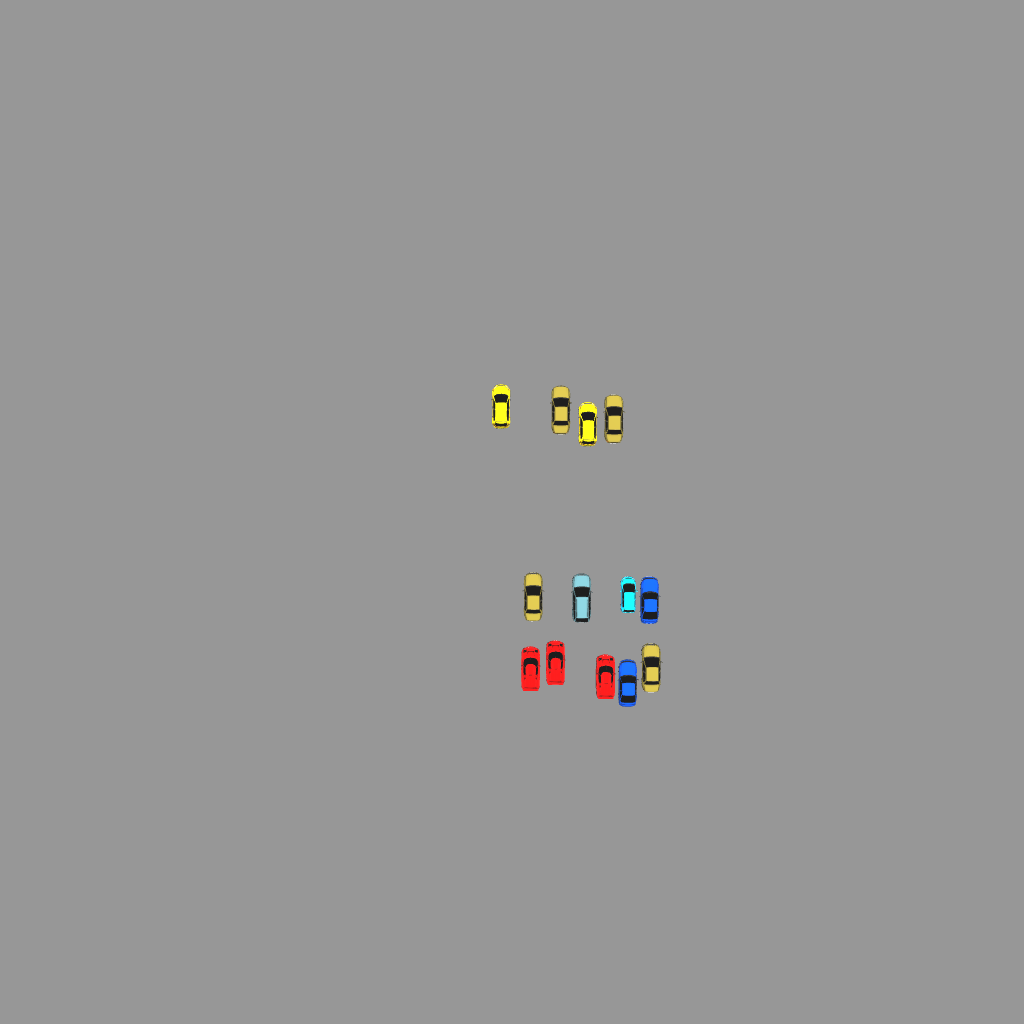
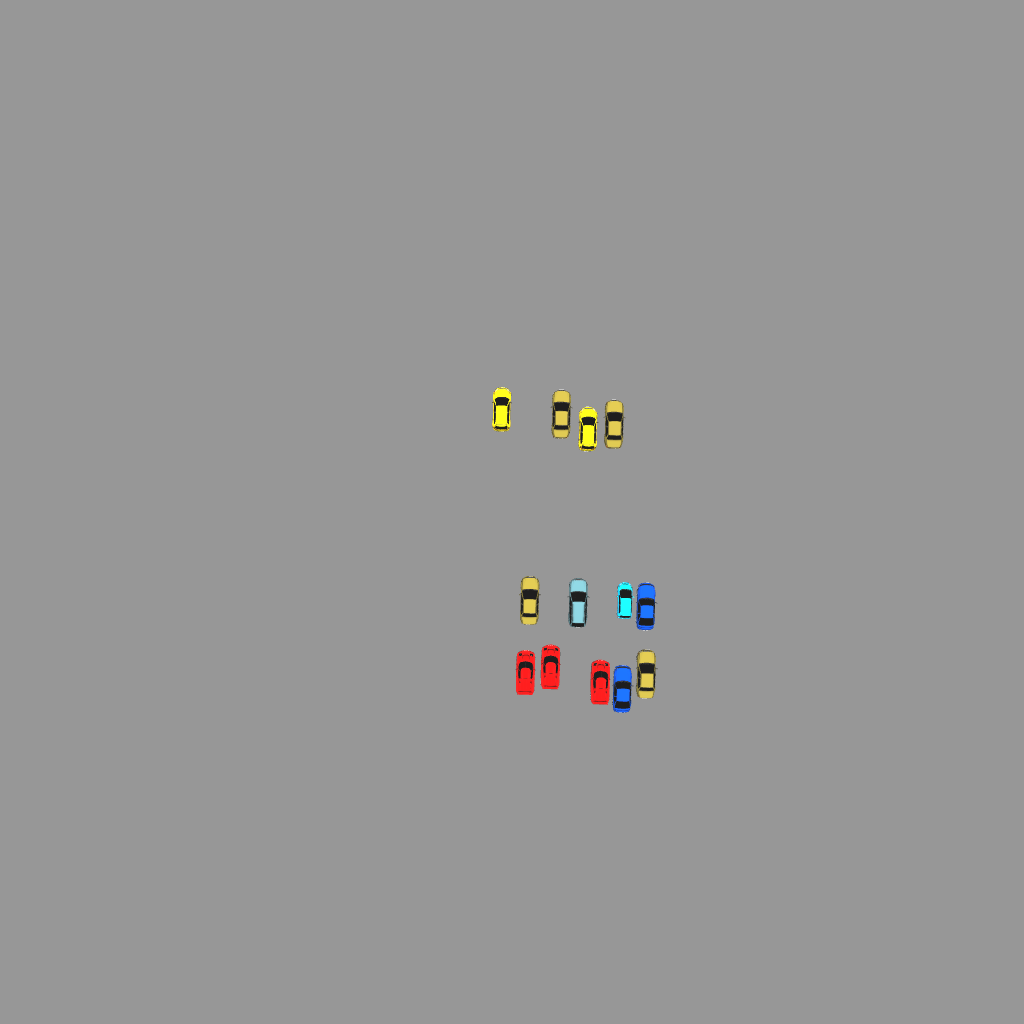
Connect WBM to ros

Changed region(s): [[0.5, 0.5625, 0.6562, 0.7188], [0.5312, 0.375, 0.625, 0.4375], [0.4688, 0.375, 0.5, 0.4375]]

diff --git a/static/main.js b/static/main.js
@@ -1,8 +1,3 @@
-var map = L.map('map').setView([51.505, -0.09], 13);
-L.tileLayer('https://tile.openstreetmap.org/{z}/{x}/{y}.png', {
-    maxZoom: 19,
-    attribution: '&copy; <a href="http://www.openstreetmap.org/copyright">OpenStreetMap</a>'
-}).addTo(map);
 
 const configData = JSON.parse(document.body.dataset.token);
 const serviceAreaCenter = configData["service_area_center"];
@@ -11,6 +6,13 @@ const cameraFov = configData["camera_fov"];
 const homePoint = configData["home_point"];
 let height = configData["init_height"];
 let period = configData["period"];
+
+
+var map = L.map('map').setView(configData["service_area_center"], 17);
+L.tileLayer('https://tile.openstreetmap.org/{z}/{x}/{y}.png', {
+    maxZoom: 19,
+    attribution: '&copy; <a href="http://www.openstreetmap.org/copyright">OpenStreetMap</a>'
+}).addTo(map);
 
 
 const HEIGHT_MIN = 10;

diff --git a/app.py b/app.py
@@ -1,7 +1,7 @@
-from flask import Flask, render_template, request, jsonify
+from flask import Flask, render_template, request
 import json
-import rospy
-import ros_library as ros_library
+import subprocess
+import os
 
 app = Flask(__name__)
 
@@ -23,12 +23,15 @@ def navigation():
     data = request.get_json()
     print("Received data:", data)
 
-    waypoints = ros_library.convertNavDataToWaypoints(data)
-    ros_library.simpleNavigation(waypoints)
+    # Call the separate ROS script with subprocess
+    try:
+        os.environ["LD_PRELOAD"] = "/usr/lib/x86_64-linux-gnu/libtiff.so.5"
+        subprocess.Popen(["python3", "main.py"], stdin=subprocess.PIPE)
+    except Exception as e:
+        print(f"Error launching ROS script: {e}")
     
     return "Received data...", 200
 
 
 if __name__ == "__main__":
-    # rospy.init_node("navigation_node")
-    app.run(debug=True)
+    app.run(debug=True, use_reloader=False)  # Disable auto-reloader

diff --git a/main.py b/main.py
@@ -1,1 +1,21 @@
 import detect
+import ros_library
+import rospy
+import os
+from geometry_msgs.msg import Point
+
+rospy.init_node("navigation_node", anonymous=True)
+
+ros_library.resetPlates()
+ros_library.resetPhotos()
+ros_library.MAX_DIST = 10.0
+ros_library.simpleNavigation([Point(0, 0, 80)], image=True)
+ros_library.simpleNavigation([Point(0, 0, 10)], image=False)
+ros_library.MAX_DIST = 1.0
+detect.init()
+
+for f in os.listdir("images"):
+    detect.draw_detections_on_image(f, f"output/det_{f}")
+    abs_coords = detect.inference_with_absolute_coordinates(f, remove_repetations=True)
+
+ros_library.readPlates(abs_coords)

diff --git a/ros_library.py b/ros_library.py
@@ -430,7 +430,7 @@ def resetPlates():
 
 if __name__ == "__main__":
 
-    rospy.init_node("navigation_node", anonymous=True)
+    # rospy.init_node("navigation_node", anonymous=True)
 
     resetPlates()
     resetPhotos()
@@ -438,7 +438,7 @@ if __name__ == "__main__":
     simpleNavigation([Point(0, 0, 80)], image=True)
     simpleNavigation([Point(0, 0, 10)], image=False)
     MAX_DIST = 1.0
-    detect.init()
+    # detect.init()
 
     for f in os.listdir("images"):
         detect.draw_detections_on_image(f, f"output/det_{f}")
